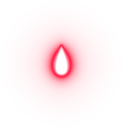
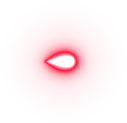
What is new? - new player's weapon. - bullets now update their rotation based on speed Vector angle. - new bullet asset.

Changed region(s): [[0.3171, 0.3171, 0.6585, 0.6585]]

diff --git a/js/player/player.js b/js/player/player.js
@@ -3,7 +3,11 @@ import {BaseEntity} from "../entities/base_entity.js";
 import {Body} from "../physics/body.js"
 import {PlayerBullet} from "../entities/player_bullets.js";
 import {
-    PLAYER_BULLET_WIDTH,
+    MULTI_BULLET_W,
+    MULTU_BULLET_H,
+    PLAYER_BULLET_H,
+    PLAYER_BULLET_SPEED,
+    PLAYER_BULLET_W,
     PLAYER_DIM,
     PLAYER_FRAMES_PER_BULLET,
     PLAYER_HEALTH,
@@ -17,6 +21,10 @@ export {
     Player
 }
 
+const WEAPON_TYPE_REGULAR = 0,
+    WEAPON_TYPE_MULTI = 1,
+    WEAPON_TYPE_LASER = 2;
+
 /**Represents, well, player
  *
  */
@@ -26,6 +34,8 @@ class Player extends BaseEntity {
         super(new Body(initialPos, PLAYER_DIM, PLAYER_DIM), game.assets["player_ship"])
         this.health = PLAYER_HEALTH;
         this.fireState = 0;
+        this.weaponType = WEAPON_TYPE_MULTI
+        this.upgradedShotsRemaining = 30
         this.shieldSprite = game.assets["player_shield"]
         this.shieldAddSize = 10;
         this.dShieldSize = 0.2;
@@ -38,13 +48,46 @@ class Player extends BaseEntity {
         }
     }
 
-    preUpdate() {
-        this.fireState++;
-        if (this.fireState === PLAYER_FRAMES_PER_BULLET) {
-            this.fireState = 0
-            let bulletPos = new Point(this.body.centerX - PLAYER_BULLET_WIDTH / 2, this.body.pos.y)
-            game.gameObjects.push(new PlayerBullet(bulletPos))
+    fire() {
+        if (this.fireState++ !== PLAYER_FRAMES_PER_BULLET)
+            return
+
+        // If it's time to fire, create bullets
+        let bullets = []
+        switch (this.weaponType) {
+            case WEAPON_TYPE_REGULAR:
+                let bulletBody = new Body(new Point(this.body.centerX - PLAYER_BULLET_W / 2, this.body.pos.y),
+                    PLAYER_BULLET_W, PLAYER_BULLET_H, new Vector(0, -PLAYER_BULLET_SPEED))
+                bullets.push(new PlayerBullet(bulletBody, game.assets["player_regular_bullet"]));
+
+                break
+
+            case WEAPON_TYPE_MULTI:
+                for (let i = 0; i < 6; i++) {
+                    let bx = this.body.centerX - MULTU_BULLET_H * 1.5 + MULTU_BULLET_H / 3 * i,
+                        by = this.body.pos.y - MULTI_BULLET_W / 3 * (2.5 - Math.abs(i - 2.5))
+
+                    let bulletBody = new Body(new Point(bx, by), MULTI_BULLET_W, MULTU_BULLET_H,
+                        new Vector((-2.5 + i) * 0.5, -PLAYER_BULLET_SPEED))
+
+                    bullets.push(new PlayerBullet(bulletBody, game.assets["player_multi_bullet"], 5))
+                }
+
+                if (this.upgradedShotsRemaining-- <= 0)
+                    this.weaponType = WEAPON_TYPE_REGULAR
+
+                break
         }
+
+        // Spawn bullets in game
+        for (let b of bullets) {
+            game.gameObjects.push(b)
+        }
+        this.fireState = 0
+    }
+
+    preUpdate() {
+        this.fire()
     }
 
     calculateMovement() {

diff --git a/js/entities/player_bullets.js b/js/entities/player_bullets.js
@@ -1,13 +1,4 @@
 import {BaseBullet} from "./base_bullet.js";
-import {Body} from "../physics/body.js";
-import {game} from "../game.js";
-import {
-    PLAYER_BULLET_DAMAGE,
-    PLAYER_BULLET_HEIGHT,
-    PLAYER_BULLET_SPEED,
-    PLAYER_BULLET_WIDTH
-} from "../game_constants.js";
-import {Vector} from "../math/vector.js";
 
 export {PlayerBullet}
 
@@ -17,10 +8,11 @@ export {PlayerBullet}
 class PlayerBullet extends BaseBullet {
     /**
      *
-     * @param pos Point representing position
+     * @param body Body representing physical position and properties
+     * @param sprite sprite to render
+     * @param damage damage on hit
      */
-    constructor(pos) {
-        super(new Body(pos, PLAYER_BULLET_WIDTH, PLAYER_BULLET_HEIGHT, new Vector(0, -PLAYER_BULLET_SPEED)),
-            game.assets["player_regular_bullet"], PLAYER_BULLET_DAMAGE)
+    constructor(body, sprite, damage = 5) {
+        super(body, sprite, damage)
     }
 }

diff --git a/js/game_constants.js b/js/game_constants.js
@@ -10,8 +10,10 @@ export const
     PLAYER_BULLET_DAMAGE = 5,
     PLAYER_BASE_COLLISION_DAMAGE = 10,
     PLAYER_DIM = 50, // player width == player height
-    PLAYER_BULLET_WIDTH = 30,
-    PLAYER_BULLET_HEIGHT = 40,
+    PLAYER_BULLET_W = 40,
+    PLAYER_BULLET_H = 30,
+    MULTI_BULLET_W = 40,
+    MULTU_BULLET_H = 30,
     PLAYER_BULLET_SPEED = 10;
 
 /**Possible entity states */

diff --git a/js/asset_manager.js b/js/asset_manager.js
@@ -7,6 +7,7 @@ let assets = [
     ["player_ship", "img/player.png"],
     ["enemy_ship", "img/base_enemy.png"],
     ["player_regular_bullet", "img/player_bullet.png"],
+    ["player_multi_bullet", "img/player_multi_bullet.png"],
     ["player_shield", "img/shield.png"],
     ["dummy", "img/dummy.png"],
     ["explosion_orange", "effects/explosion_orange.png"],

diff --git a/js/entities/base_enemy.js b/js/entities/base_enemy.js
@@ -17,7 +17,7 @@ class BaseEnemy extends BaseEntity {
      * @param damage bullet's damage
      */
     constructor(body, sprite, health, damage = 0) {
-        super(body, game.assets["enemy_ship"]);
+        super(body, game.assets["enemy_ship"])
         this.health = health
         this.damage = damage
     }

diff --git a/js/entities/base_bullet.js b/js/entities/base_bullet.js
@@ -17,4 +17,9 @@ class BaseBullet extends BaseEntity {
         super(body, sprite)
         this.damage = damage
     }
+
+    update() {
+        super.update();
+        this.body.rotation = this.body.speed.angle
+    }
 }
